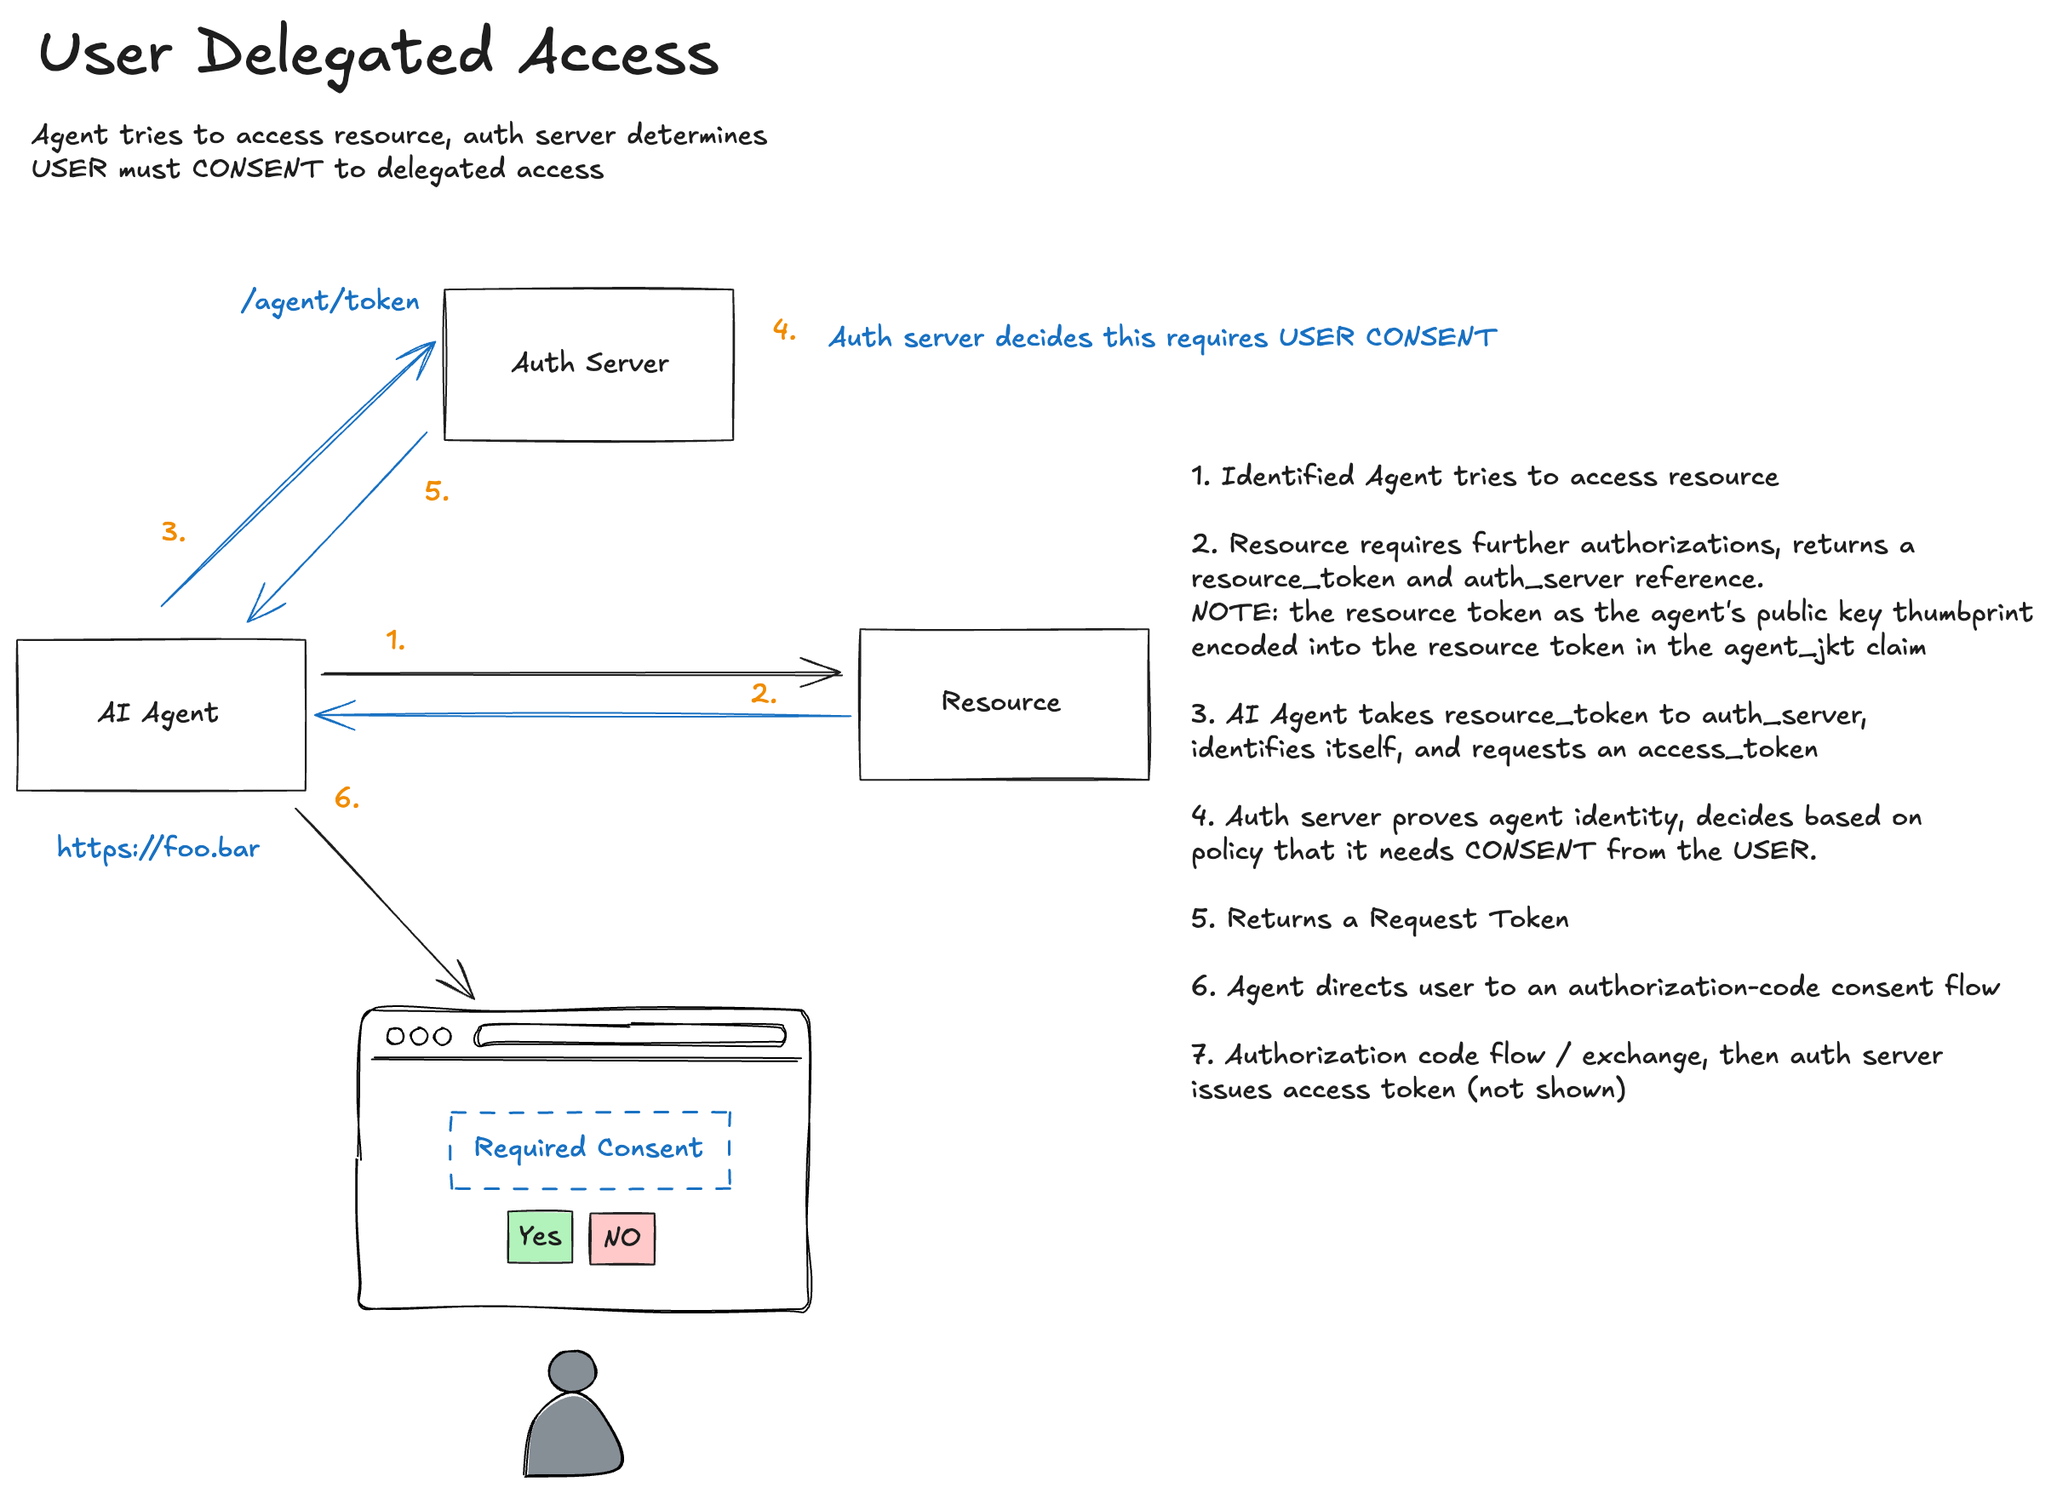
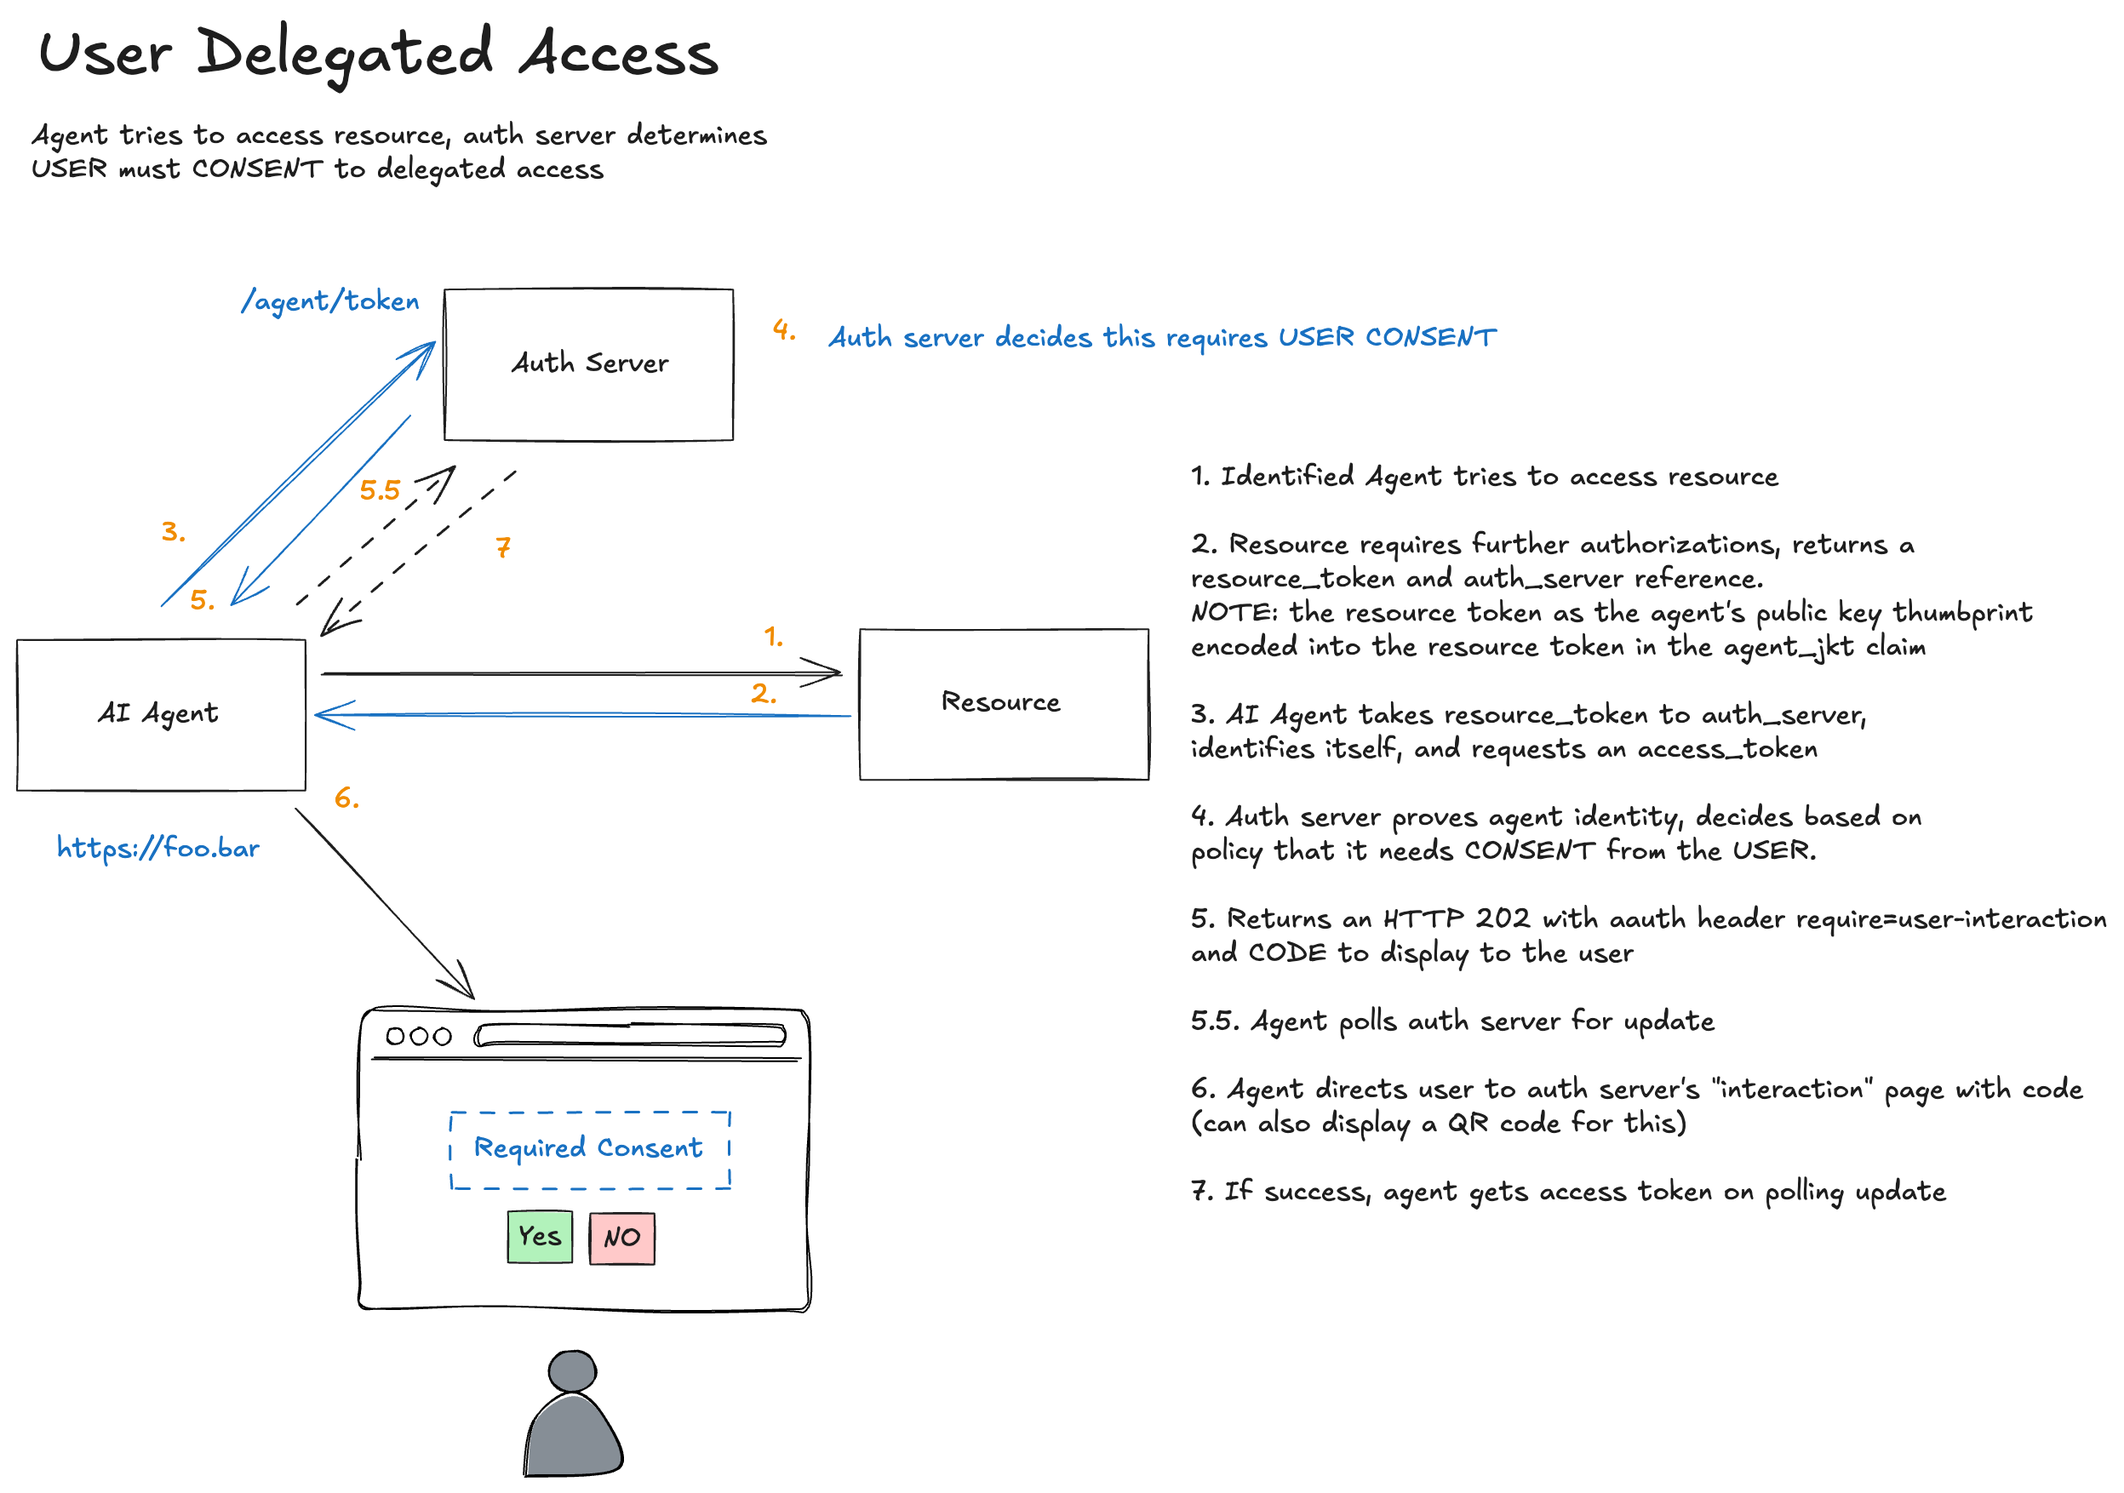
updated flow 5

diff --git a/docs/flow-04-user.md b/docs/flow-04-user.md
@@ -12,7 +12,7 @@ In the [previous post](./flow-03-authz.md), we saw how an agent can obtain autho
 In the previous section which focused on [identified agent authorization](./flow-03-authz.md), the auth server evaluated policy and immediately issued an auth token. This works for scenarios like:
 
 - Machine-to-machine authorization (no user in the loop)
-- Pre-approved agent-resource pairs
+- Pre-approved, admin consented agent-resource pairs
 - Low-sensitivity operations
 
 But many scenarios require explicit user consent:
@@ -22,7 +22,7 @@ But many scenarios require explicit user consent:
 - First-time authorization for a new agent
 - High-sensitivity operations
 
-The auth server makes this determination, not the agent or resource. The agent simply presents the resource token; the auth server decides whether to issue a token directly or require consent.
+The auth server makes this determination, not the agent or resource. The agent simply presents the resource token; the auth server decides whether to issue a token directly or require consent or user involvement.
 
 ## The Consent Flow
 
@@ -38,9 +38,9 @@ The agent requests the protected resource and receives a 401 with a resource tok
 >>> AGENT REQUEST to https://important.resource.com/data-auth
 ================================================================================
 GET https://important.resource.com/data-auth HTTP/1.1
-Signature: sig1=:yNg83RIDMM7dnCJXGig_LrBskrbHtlTFDzCpMBQgtn1oELS1c4QNhH30rboOuGpDLgjaFx6Ut14n2gzWyV26DA:
-Signature-Input: sig1=("@method" "@authority" "@path" "signature-key");created=1768786017
-Signature-Key: sig1=(scheme=jwks id="https://agent.supply-chain.com" kid="key-1" well-known="aauth-agent")
+Signature: sig=:2_i12baYGJq8rTnIQrRltTs8NQKufOF6G98SXwHtaoG1Ygq-cOd1c5vsp70u1bfJ1MEZZWd68zee4AOVTxJbCA:
+Signature-Input: sig=("@method" "@authority" "@path" "signature-key");created=1774923811
+Signature-Key: sig=(scheme=jwks_uri id="https://agent.supply-chain.com" kid="key-1")
 ================================================================================
 ```
 ```bash
@@ -48,7 +48,7 @@ Signature-Key: sig1=(scheme=jwks id="https://agent.supply-chain.com" kid="key-1"
 <<< RESOURCE RESPONSE
 ================================================================================
 HTTP/1.1 401
-agent-auth: httpsig; auth-token; resource_token="eyJhbGciOiJFZERTQSIsImtpZCI6InJlc291cmNlLWtleS0xIiwidHlwIjoi...
+aauth: require=auth-token; resource-token="eyJhbGciOiJFZERTQSIsImtpZCI6InJlc291cmNlLWtleS0xIiwidHlwIjoic...
 content-length: 22
 
 [Body (22 bytes)]
@@ -56,72 +56,85 @@ Authorization required
 ================================================================================
 ```
 
-### Step 3: Agent Requests Authorization (Same Request, Different Response)
+### Step 3: Agent Requests Authorization
 
 The agent presents the resource token to the auth server, exactly as in [identified agent authorization](./flow-03-authz.md):
 
 ```bash
 ================================================================================
->>> AGENT REQUEST to https://auth-server.com/agent/token
+>>> AGENT TOKEN REQUEST to https://auth-server.com/token
 ================================================================================
-POST https://auth-server.com/agent/token HTTP/1.1
-Content-Digest: sha-256=:rMyTWCblP3KXnWkI2KGnDVqj91ETqvcEUuzSrXChi+c=:
-Content-Type: application/x-www-form-urlencoded
-Signature: sig1=:ICv_zjE12EOoEOSKofQR9R3-IoRL7TM0DEc2Q8cJubwoRnbWvFNUDQQFiVizugLFeTAmBQ4JqRGv2qLpQO8GBw:
-Signature-Input: sig1=("@method" "@authority" "@path" "content-type" "content-digest" "signature-key");created=176...
-Signature-Key: sig1=(scheme=jwks id="https://agent.supply-chain.com" kid="key-1" well-known="aauth-agent")
+POST https://auth-server.com/token HTTP/1.1
+Content-Type: application/json
+Signature: sig=:fUdXRsCaWAzclDeC3nHIFIz_QV_GDY7wvIj4mlCH9EzjGdmiRnklUUulJZephPqeDoydsyJD5KsOfqX37MYXDA:
+Signature-Input: sig=("@method" "@authority" "@path" "signature-key");created=1774923811
+Signature-Key: sig=(scheme=jwks_uri id="https://agent.supply-chain.com" kid="key-1")
 
-[Body]
-request_type=auth&resource_token=eyJhbGciOiJFZERTQSIsImtpZCI6InJlc291cmNlLWtleS0xIiwidHlwIjoicmVzb3VyY2Urand0In0...&redirect_uri=https://agent.supply-chain.com/callback
+[Body (537 bytes)]
+{"resource_token": "eyJhbGciOiJFZERTQSIsImtpZCI6InJlc291cmNlLWtleS0xIiwidHlwIjoicmVzb3VyY2Urand0In0..."}
 ================================================================================
 ```
 
-But this time, the auth server evaluates policy and determines that user consent is required. Instead of an auth token, it returns a **request token**:
+But this time, the auth server evaluates policy and determines that user consent is required. Instead of issuing an auth token immediately, it returns a deferred response:
+
 ```bash
 ================================================================================
 <<< AUTH SERVER RESPONSE
 ================================================================================
-HTTP/1.1 200 OK
+HTTP/1.1 202 Accepted
+Location: https://auth-server.com/pending/2e44214dc421
+AAuth: require=interaction; code="7R6XKPRP"
 Content-Type: application/json
 
 [Body]
 {
-  "request_token": "kgJ04U2x_0tIBAddXd5I_LTnUMow6dWnMTjkEPuY1Y4",
-  "expires_in": 600
+  "status": "pending",
+  "location": "https://auth-server.com/pending/2e44214dc421",
+  "require": "interaction",
+  "code": "7R6XKPRP"
 }
 ================================================================================
 ```
 
-## Request Tokens: OAuth PAR for Agents
+The response tells the agent:
 
-If you've worked with OAuth 2.0 Pushed Authorization Requests (PAR, RFC 9126), this pattern will look familiar. PAR lets clients push authorization parameters to the auth server and receive an opaque reference in return.
+- The authorization request is pending
+- Poll `location` to learn when the auth token is ready
+- The user must complete an interaction step
+- The interaction code is `7R6XKPRP`
 
-AAuth's request token serves a similar purpose:
+## Deferred Authorization Instead of Authorization Codes
 
-| OAuth PAR | AAuth Request Token |
-|-----------|---------------------|
-| Stores authorization request server-side | Stores authorization context server-side |
-| Returns `request_uri` | Returns `request_token` |
-| Used in authorization URL | Used in consent URL |
-| Short-lived (typically 60s) | Short-lived (600s in this example) |
+This flow no longer relies on a request token plus authorization code exchange. Instead, the auth server uses a standard deferred pattern:
 
-But there's a key difference: the AAuth request token already contains cryptographically verified context from the resource token. The auth server has already validated:
+- The initial token request returns `202 Accepted`
+- The response includes a pending URL
+- The response tells the agent that interaction is required
+- The response includes a short interaction code the user can enter or scan
+
+Before sending this `202`, the auth server has already validated:
 
 - The resource's identity and signature
 - The agent's identity and signature  
 - The cryptographic binding between them (`agent_jkt`)
-- The requested scopes / constraints
+- The requested scopes and constraints
 
-This context is stored server-side, associated with the request token. The user will consent to a request that has already been cryptographically validated.
+That validated context is stored server-side behind the pending URL. The user is consenting to a request that has already been cryptographically verified.
 
 ## Step 4: User Consent
 
-The agent directs the user to the consent endpoint:
-```
-https://auth-server.com/agent/auth?request_token=kgJ04U2x_0tIBAddXd5I_LTnUMow6dWnMTjkEPuY1Y4&redirect_uri=https://agent.supply-chain.com/callback
+The user completes interaction at the auth server using the interaction code:
+
+```bash
+INFO:     127.0.0.1:49425 - "GET /interact?code=7R6XKPRP HTTP/1.1" 200 OK
+INFO:     127.0.0.1:49425 - "POST /interact HTTP/1.1" 303 See Other
+INFO:     127.0.0.1:49425 - "GET /interact?code=7R6XKPRP HTTP/1.1" 200 OK
+INFO:     127.0.0.1:49425 - "POST /interact HTTP/1.1" 200 OK
 ```
 
-The auth server displays a consent screen to the user. Because the request token references validated context, the consent screen can show verified information:
+The agent would show the user the interaction URL and interaction code and the user would authenticate and grant consent in a browser. If you're familiar with OAuth device code flow, this should feel similar. However, in AAuth, this deferred flow is the default first-class flow not an optional bolt-on after-the-fact. 
+
+The auth server displays a consent screen to the user. Because the pending authorization request already references validated context, the consent screen can show verified information:
 
 - ✓ Agent identity: `https://agent.supply-chain.com` (verified via JWKS)
 - ✓ Resource requesting access: `https://important.resource.com` (verified via signature)
@@ -131,36 +144,19 @@ The user isn't consenting to claims made by the agent. They're consenting to cry
 
 ### After User Approval
 
-Once the user consents, the auth server redirects back to the agent with an authorization code:
-```
-https://agent.supply-chain.com/callback?code=3oyoQOpk9Mn1caCjVoJ-ibMfIpyRzBKwV2A5XPCuFGk
-```
+Once the user completes consent, the pending URL becomes ready to return the auth token.
 
-## Step 5: Code Exchange
+## Step 5: Agent Polls the Pending URL
 
-The agent exchanges the code for an auth token. Note that this request is also signed: the agent continues to prove its identity:
+The agent polls the pending URL until the auth server is ready to return the auth token:
+
 ```bash
-================================================================================
->>> AGENT REQUEST to https://auth-server.com/agent/token
-================================================================================
-POST https://auth-server.com/agent/token HTTP/1.1
-Content-Digest: sha-256=:iW1aTTCfubZKzu+4a8LoxYXIVEX0av0ii09u0ybxS1A=:
-Content-Type: application/x-www-form-urlencoded
-Signature: sig1=:qrlfQIgWSZtk5ret60dsdW-nIIjbM9S_nOO4dq8Mxs1hfnv0UZf-EZVOYB8E7QBD1J0QmQbwt-6CyJyzN8BoAg:
-Signature-Input: sig1=("@method" "@authority" "@path" "content-type" "content-digest" "signature-key");created=176...
-Signature-Key: sig1=(scheme=jwks id="https://agent.supply-chain.com" kid="key-1" well-known="aauth-agent")
-
-[Body]
-request_type=code&code=3oyoQOpk9Mn1caCjVoJ-ibMfIpyRzBKwV2A5XPCuFGk&redirect_uri=https://agent.supply-chain.com/callback
-================================================================================
+INFO:     127.0.0.1:49426 - "GET /pending/2e44214dc421 HTTP/1.1" 200 OK
 ```
 
-The auth server validates:
-1. The agent's signature matches the agent bound to the original request
-2. The authorization code is valid and unused
-3. The redirect URI matches the original request
+There is no OAuth-style authorization code in this flow. The auth token is delivered from the auth server to the agent through the pending URL the agent already knows about and polls with its own authenticated requests. The browser is no longer a trusted (also unsafe) actor in this flow. It's an inconsequential actor from a security perspective. No need to mess around with authorization codes or PKCE. 
 
-Then issues the auth token:
+When the pending request is complete, the auth server returns the auth token:
 ```bash
 ================================================================================
 <<< AUTH SERVER RESPONSE
@@ -171,8 +167,7 @@ Content-Type: application/json
 [Body]
 {
   "auth_token": "eyJhbGciOiJFZERTQSIsImtpZCI6ImF1dGgta2V5LTEiLCJ0eXAiOiJhdXRoK2p3dCJ9...",
-  "expires_in": 3600,
-  "token_type": "Bearer"
+  "expires_in": 3600
 }
 ================================================================================
 ```
@@ -182,16 +177,18 @@ The auth token now includes a `sub` claim identifying the user who consented:
 {
   "iss": "https://auth-server.com",
   "aud": "https://important.resource.com",
+  "jti": "ed2b1398-3a50-4982-946f-302f1a248620",
   "cnf": {
     "jwk": {
       "kty": "OKP",
       "crv": "Ed25519",
-      "x": "UsRd_e0Lq8WU5uYEklowyqe_DSaFfB9fjnn__DwWF6E",
+      "x": "GjVi-2JD9V1LOrEpXE8nVIiuhz8UbFru1Wvz0YrtGWw",
       "kid": "key-1"
     }
   },
+  "iat": 1774923811,
   "scope": "data.read data.write",
-  "exp": 1768789645,
+  "exp": 1774927411,
   "agent": "https://agent.supply-chain.com",
   "sub": "testuser"
 }
@@ -206,9 +203,9 @@ From here, it's identical to [identified agent authorization](./flow-03-authz.md
 >>> AGENT REQUEST to https://important.resource.com/data-auth
 ================================================================================
 GET https://important.resource.com/data-auth HTTP/1.1
-Signature: sig1=:yMTf_qgsX8ouHj7D5N-NGXVpq8UAPaz12MhkQoRJwAsPBwsHc1NcTRXuo2KkicCLG03fzv-HWJd0Zo0bci4aCg:
-Signature-Input: sig1=("@method" "@authority" "@path" "signature-key");created=1768786045
-Signature-Key: sig1=(scheme=jwt jwt="eyJhbGciOiJFZERTQSIsImtpZCI6ImF1dGgta2V5LTEiLCJ0eXAiOiJhdXRoK2p3dCJ9.eyJpc3...
+Signature: sig=:2F0yhIB_jVAR5vCcCwep7W744aTcsltW3fb0bEES8dY6WBrH-Jtf1Di30fxhrPh_E90q2utS6FdNx76-KchTBg:
+Signature-Input: sig=("@method" "@authority" "@path" "signature-key");created=1774923811
+Signature-Key: sig=(scheme=jwt jwt="eyJhbGciOiJFZERTQSIsImtpZCI6ImF1dGgta2V5LTEiLCJ0eXAiOiJhdXRoK2p3dCJ9.eyJpc3...
 ================================================================================
 ```
 ```bash
@@ -226,12 +223,12 @@ content-type: application/json
 
 ## Policy Decides, Not the Agent
 
-A crucial aspect of this design: **the agent doesn't know in advance whether consent will be required**. It makes the same request to `/agent/token` regardless. The auth server's response tells the agent what happens next:
+A crucial aspect of this design: **the agent doesn't know in advance whether consent will be required**. It makes the same request to `/token` regardless. The auth server's response tells the agent what happens next:
 
 | Response | Meaning |
 |----------|---------|
-| `auth_token` in response | Authorization granted directly |
-| `request_token` in response | User consent required |
+| `200` with `auth_token` | Authorization granted directly |
+| `202` with pending URL and interaction code | User interaction required |
 | 4xx error | Authorization denied |
 
 This keeps policy decisions centralized in the auth server. The auth server can consider:
@@ -241,6 +238,8 @@ This keeps policy decisions centralized in the auth server. The auth server can 
 - Does organizational policy allow direct issuance?
 - Are there risk signals that require user confirmation?
 
+And the agent treats any call to /token the same: it could return immediately, or a 202 deferred response. It will always be prepared to handle that. There is no "this is authorization code flow vs device code flow vs client credentials, etc". All auth flows in AAuth are treated as potentially having the same outcome (ie, deferred and polled). 
+
 
 ## Comparison with OAuth
 
@@ -248,7 +247,8 @@ This keeps policy decisions centralized in the auth server. The auth server can 
 |--------|--------------------------|-------------------|
 | Client authentication | Client secret or PKCE | HTTP message signatures |
 | Authorization request | Client constructs URL with scopes | Resource provides scope requirements |
-| Request binding | PKCE code verifier | Request token + agent signatures |
+| Deferred completion | Authorization code redirect | Pending URL polling |
+| Request binding | PKCE code verifier | Resource token + agent signatures |
 | Token binding | Optional (DPoP) | Mandatory (cnf claim) |
 | Scope source | Client decides | Resource declares |
 
